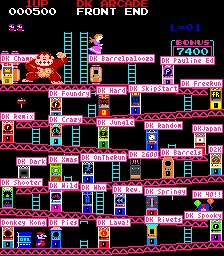
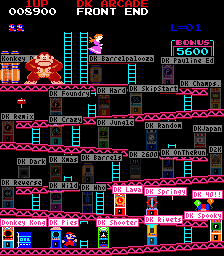
Update DKShooter to respawn fireballs and firefoxes appropriate to the stage Pauline announces options when Jumpman is facing a machine: "Push P1 START for options or push JUMP to play". DK Junior options for coaching and chorus were removed as they were incorrectly set. Notes added about configurin

diff --git a/launch.py b/launch.py
@@ -112,20 +112,27 @@ def jump_to_continue():
 
 def write_text(text=None, font=pl_font, x=0, y=0, fg=WHITE, bg=None, bubble=False, box=False, rj_adjust=0):
     """Write text to screen at given position using fg and bg colour (None for transparent)"""
+
     if text:
         img = font.render(text, False, fg, bg)
         w, h = img.get_width(), img.get_height()
         _x = x - w + rj_adjust if rj_adjust else x
         _g.screen.blit(img, (_x, y))
         if box or bubble:
-            pygame.draw.line(_g.screen, bg, (_x - 1, y - 1), (_x + w, y - 1))
-            pygame.draw.rect(_g.screen, fg, (_x - 2, y - 2, w + 3, h + 3), 1)
+            # fill missing parts of box inside
+            pygame.draw.line(_g.screen, bg, (_x - 1, y - 1), (_x + w - 1, y - 1))
             pygame.draw.line(_g.screen, bg, (_x - 1, y), (_x - 1, y + 5))
+
+            # draw box outline
+            pygame.draw.line(_g.screen, fg, (_x - 1, y - 2), (_x + w - 1, y - 2))
+            pygame.draw.line(_g.screen, fg, (_x - 1, y + h), (_x + w - 1, y + h))
+            pygame.draw.line(_g.screen, fg, (_x - 2, y - 1), (_x - 2, y + h - 1))
+            pygame.draw.line(_g.screen, fg, (_x + w, y - 1), (_x + w, y + h - 1))
+
             if bubble:
-                for point in ((_x - 2, y - 2), (_x + w, y - 2), (_x - 2, y + h), (_x + w, y + h)):
-                    _g.screen.set_at(point, BLACK)
-                pygame.draw.polygon(_g.screen, bg, [(_x - 2, y + 2), (_x - 6, y + 3), (_x - 2, y + 4)])
-                pygame.draw.lines(_g.screen, fg, False, [(_x - 2, y + 2), (_x - 6, y + 3), (_x - 2, y + 4)])
+                # make box into a speech bubble
+                pygame.draw.polygon(_g.screen, bg, [(_x - 2, y + 1), (_x - 6, y + 2), (_x - 2, y + 3)])
+                pygame.draw.lines(_g.screen, fg, False, [(_x - 2, y + 1), (_x - 6, y + 2), (_x - 2, y + 3)])
 
 
 def flash_message(message, x, y, cycles=6, delay_ms=50, clear=True):
@@ -336,24 +343,24 @@ def display_icons(detect_only=False, with_background=False, below_y=None, above_
             if _x < _g.xpos + SPRITE_HALF < _x + w and (_y < _g.ypos + SPRITE_HALF < _y + h):
                 # Pauline to announce the game found near Jumpman.  Return the game icon information.
                 if not unlocked and since_last_move() % 4 > 2:
-                    p_des = f"UNLOCK AT {unlock}"
+                    p_des = f"Unlock at {unlock}"
                 elif unlocked and st3 and st2 and st1 and not BASIC_MODE:
                     if since_last_move() % 5 > 4:
-                        p_des = f'1ST PRIZE AT {format_K(st1)}'
+                        p_des = f'1st prize at {format_K(st1)}'
                     elif since_last_move() % 5 > 3:
-                        p_des = f'2ND PRIZE AT {format_K(st2)}'
+                        p_des = f'2nd prize at {format_K(st2)}'
                     elif since_last_move() % 5 > 2:
-                        p_des = f'3RD PRIZE AT {format_K(st3)}'
+                        p_des = f'3rd prize at {format_K(st3)}'
                 elif '-record' in _s.get_emulator(emu) and since_last_move() % 4 > 2:
                     # In case the default emu is for recordings
-                    p_des = 'FOR RECORDING!'
+                    p_des = 'For recording!'
                 elif not st3.strip() and since_last_move() % 4 > 2:
-                    p_des = 'FOR PRACTICE!'
+                    p_des = 'For practice!'
                 elif not int(FREE_PLAY or BASIC_MODE) and since_last_move() % 4 > 2:
-                    p_des = f'${str(PLAY_COST)} TO PLAY'
-                if not _g.awarded:
+                    p_des = f'${str(PLAY_COST)} to play'
+                if not _g.awarded and not _g.ready:
                     # don't announce if Pauline already informing of an award
-                    write_text(p_des.upper(), x=108, y=37, bg=MAGENTA, bubble=True)
+                    write_text(p_des, x=108, y=38, bg=MAGENTA, fg=PINK, bubble=True)
                 if unlocked:
                     nearby = (sub, name, emu, rec, unlock, st3, st2, st1)
                     _g.selected = p_des
@@ -512,7 +519,8 @@ def build_launch_menu():
     nearby = display_icons(detect_only=True)
     if nearby:
         sub, name, emu, rec, unlock, st3, st2, st1 = nearby
-        show_coach, show_chorus = sub in COACH_FRIENDLY, sub in CHORUS_FRIENDLY
+        show_coach = sub in COACH_FRIENDLY or (name == "dkong" and sub == "")
+        show_chorus = sub in CHORUS_FRIENDLY or (name == "dkong" and sub == "")
         inps = _s.get_inp_files(emu, name, sub, 12 - show_coach - show_chorus)
 
         _g.launchmenu = pymenu.Menu(256, 224, _g.selected.center(26), mouse_visible=False, mouse_enabled=False,
@@ -789,7 +797,7 @@ def process_interrupts():
     # Start up messages from Pauline
     if not _g.lastmove and not display_icons(detect_only=True):
         message = (COIN_INFO, FREE_INFO)[int(FREE_PLAY or BASIC_MODE)]
-        write_text(message[int(_g.timer.duration) % len(message)], x=108, y=37, bg=MAGENTA, bubble=True)
+        write_text(message[int(int(_g.timer.duration) % (len(message) * 2) / 2)], x=108, y=38, bg=MAGENTA, fg=PINK, bubble=True)
     show_score()
 
     # Bonus timer
@@ -879,6 +887,15 @@ def process_interrupts():
     # Purge coins
     _g.coins = [i for i in _g.coins if i[0] > -10]
 
+    # DK shouts out the launch options
+    if _g.ready:
+        if since_last_move() % 4 <= 2:
+            write_text("Push P1 START for options...", x=108, y=38, bg=MAGENTA, fg=PINK, bubble=True)
+            write_text("P1 START", x=128, y=38, bg=MAGENTA)
+        else:
+            write_text("or push JUMP to play", x=108, y=38, bg=MAGENTA, fg=PINK, bubble=True)
+            write_text("JUMP", x=140, y=38, bg=MAGENTA)
+
 
 def get_prize_placing(awarded):
     """Return the awarded prize placing e.g. '1', '1st'"""
@@ -892,7 +909,7 @@ def animate_rolling_coins(out_of_time=False):
         co_x, co_y, co_rot, co_dir, co_ladder, co_type, co_awarded = coin
         if co_awarded:
             place, place_text = get_prize_placing(co_awarded)
-            write_text(f"YOU WON {place_text} PRIZE!", x=108, y=37, bg=MAGENTA, bubble=True)
+            write_text(f"You won {place_text} prize!", x=108, y=38, bg=MAGENTA, fg=PINK, bubble=True)
             _g.awarded = co_awarded
             _g.lastaward = _g.timer.duration
 
@@ -978,7 +995,7 @@ def teleport_between_hammers():
                 _g.ypos = 188 - (92 - _g.ypos)
                 _g.teleport_ticks = pygame.time.get_ticks()
         if pygame.time.get_ticks() - _g.teleport_ticks < 1000:
-            write_text("TELEPORT JUMP!", x=108, y=37, bg=MAGENTA, bubble=True)
+            write_text("Teleport Jump!", x=108, y=38, bg=MAGENTA, fg=PINK, bubble=True)
 
 
 def main(initial=True):

diff --git a/dk_config.py b/dk_config.py
@@ -140,8 +140,8 @@ PLUGINS = [
   ("dkongwho", "dkwho")]
 
 # Roms that are compatible with my plugins
-COACH_FRIENDLY = ["", "dkongspringy", "dkongbarrels", "dkongcb", "dkonghrd", "dkongbcc"]
-CHORUS_FRIENDLY = ["", "dkongspringy", "dkongbarrels", "dkongcb", "dkonghrd", "dkongbcc", "dkongrivets", "dkongrnd",
+COACH_FRIENDLY = ["dkongspringy", "dkongbarrels", "dkongcb", "dkonghrd", "dkongbcc"]
+CHORUS_FRIENDLY = ["dkongspringy", "dkongbarrels", "dkongcb", "dkonghrd", "dkongbcc", "dkongrivets", "dkongrnd",
                    "dkongwbh", "dkongpies", "dkongjapan", "dkongpe", "dkongfr", "dkongl05", "dkongce", "dkongrev"]
 
 # Colours
@@ -152,7 +152,7 @@ BROWN = (172, 5, 7)
 CYAN = (20, 243, 255)
 MAGENTA = (236, 49, 148)
 WHITE = (254, 252, 255)
-PINK = (255, 188, 160)
+PINK = (255, 210, 190)
 GREY = (128, 128, 128)
 DARKBLUE = (4, 2, 220)
 
@@ -229,8 +229,8 @@ JUMP_SHORTEN = 1.25
 
 # In game messages and instructions
 QUESTION = "WHAT GAME WILL YOU PLAY ?"
-COIN_INFO = ['HEY JUMPMAN!', '', 'COLLECT COINS', 'TO PLAY GAMES', '', 'PUSH COIN', 'FOR GAME INFO', '']
-FREE_INFO = ['HEY JUMPMAN!', '', 'ALL MACHINES', 'ARE FREE TO PLAY', '', 'PUSH COIN', 'FOR GAME INFO', '']
+COIN_INFO = ['Hey Jumpman!', '', 'You must collect coins...', 'to unlock more games', '', 'Push COIN for game info', '']
+FREE_INFO = ['Hey Jumpman!', '', 'All arcades are free to play', '', 'Push COIN to for game info', '']
 
 NO_ROMS_MESSAGE = [
     "NO ROMS WERE FOUND!", "",
@@ -309,11 +309,11 @@ Down     and down ladders.
 Jump   — Launch machine that
          Jumpman is facing.
 
-P1     - Call up launch menu
-         for machine that
-         Jumpman is facing.
+P1     - Show launch options
+         for machine that 
+         Jumpman is facing
           
-P2     — Call up the quick
+P2     — Call up a quick
          access game list
 
 Coin   - Show game info

diff --git a/readme.md b/readme.md
@@ -139,6 +139,7 @@ These plugins add extra features to some roms.
 The coaching plugin can help you master the springs and barrels stages.
 
 [![DKCoach](https://github.com/10yard/dkafe/blob/master/artwork/about/coach.png)](https://www.youtube.com/watch?v=ax-xDwVr7No)
+
 <sup>Click image to watch gameplay video</sup>
 
 ### DKChorus
@@ -146,6 +147,7 @@ The coaching plugin can help you master the springs and barrels stages.
 The chorus plugin replaces the default samples and music with acapella sounds.
 
 [![DKChorus](https://github.com/10yard/dkafe/blob/master/artwork/about/launchmenu.png)](https://www.youtube.com/watch?v=nYCNioYWcO4)
+
 <sup>Click image to watch gameplay video</sup>
 
 
@@ -215,7 +217,9 @@ The romlist.csv contains information about the roms, which slot they should appe
 
 The frontend is rendered at 224x256 pixels (as per the original Donkey Kong arcade machine) and then scaled to fit the monitors actual resolution.
 
-The command line argument `-view "Pixel Aspect (7:8)"` is used by default to override MAME's default 4:3 aspect.
+The OPTION `-view "Pixel Aspect (7:8)"` is used by default to override MAME's default 4:3 aspect.  
+
+If rotating your monitor then you may want to add the OPTION `-nokeepaspect` to fill the screen.
 
 
 ### Frontend Settings
@@ -361,6 +365,9 @@ CONTROL_EXIT = escape
 CONTROL_SETTINGS = tab
 CONTROL_SNAP = F12
 ```
+
+IMPORTANT NOTE: The controls configured in the frontend do not apply to the emulator.  If your controls are not default then you will also have to configure your controls in the emulator menu (tab). 
+
 
 #### Joystick Controls
 
